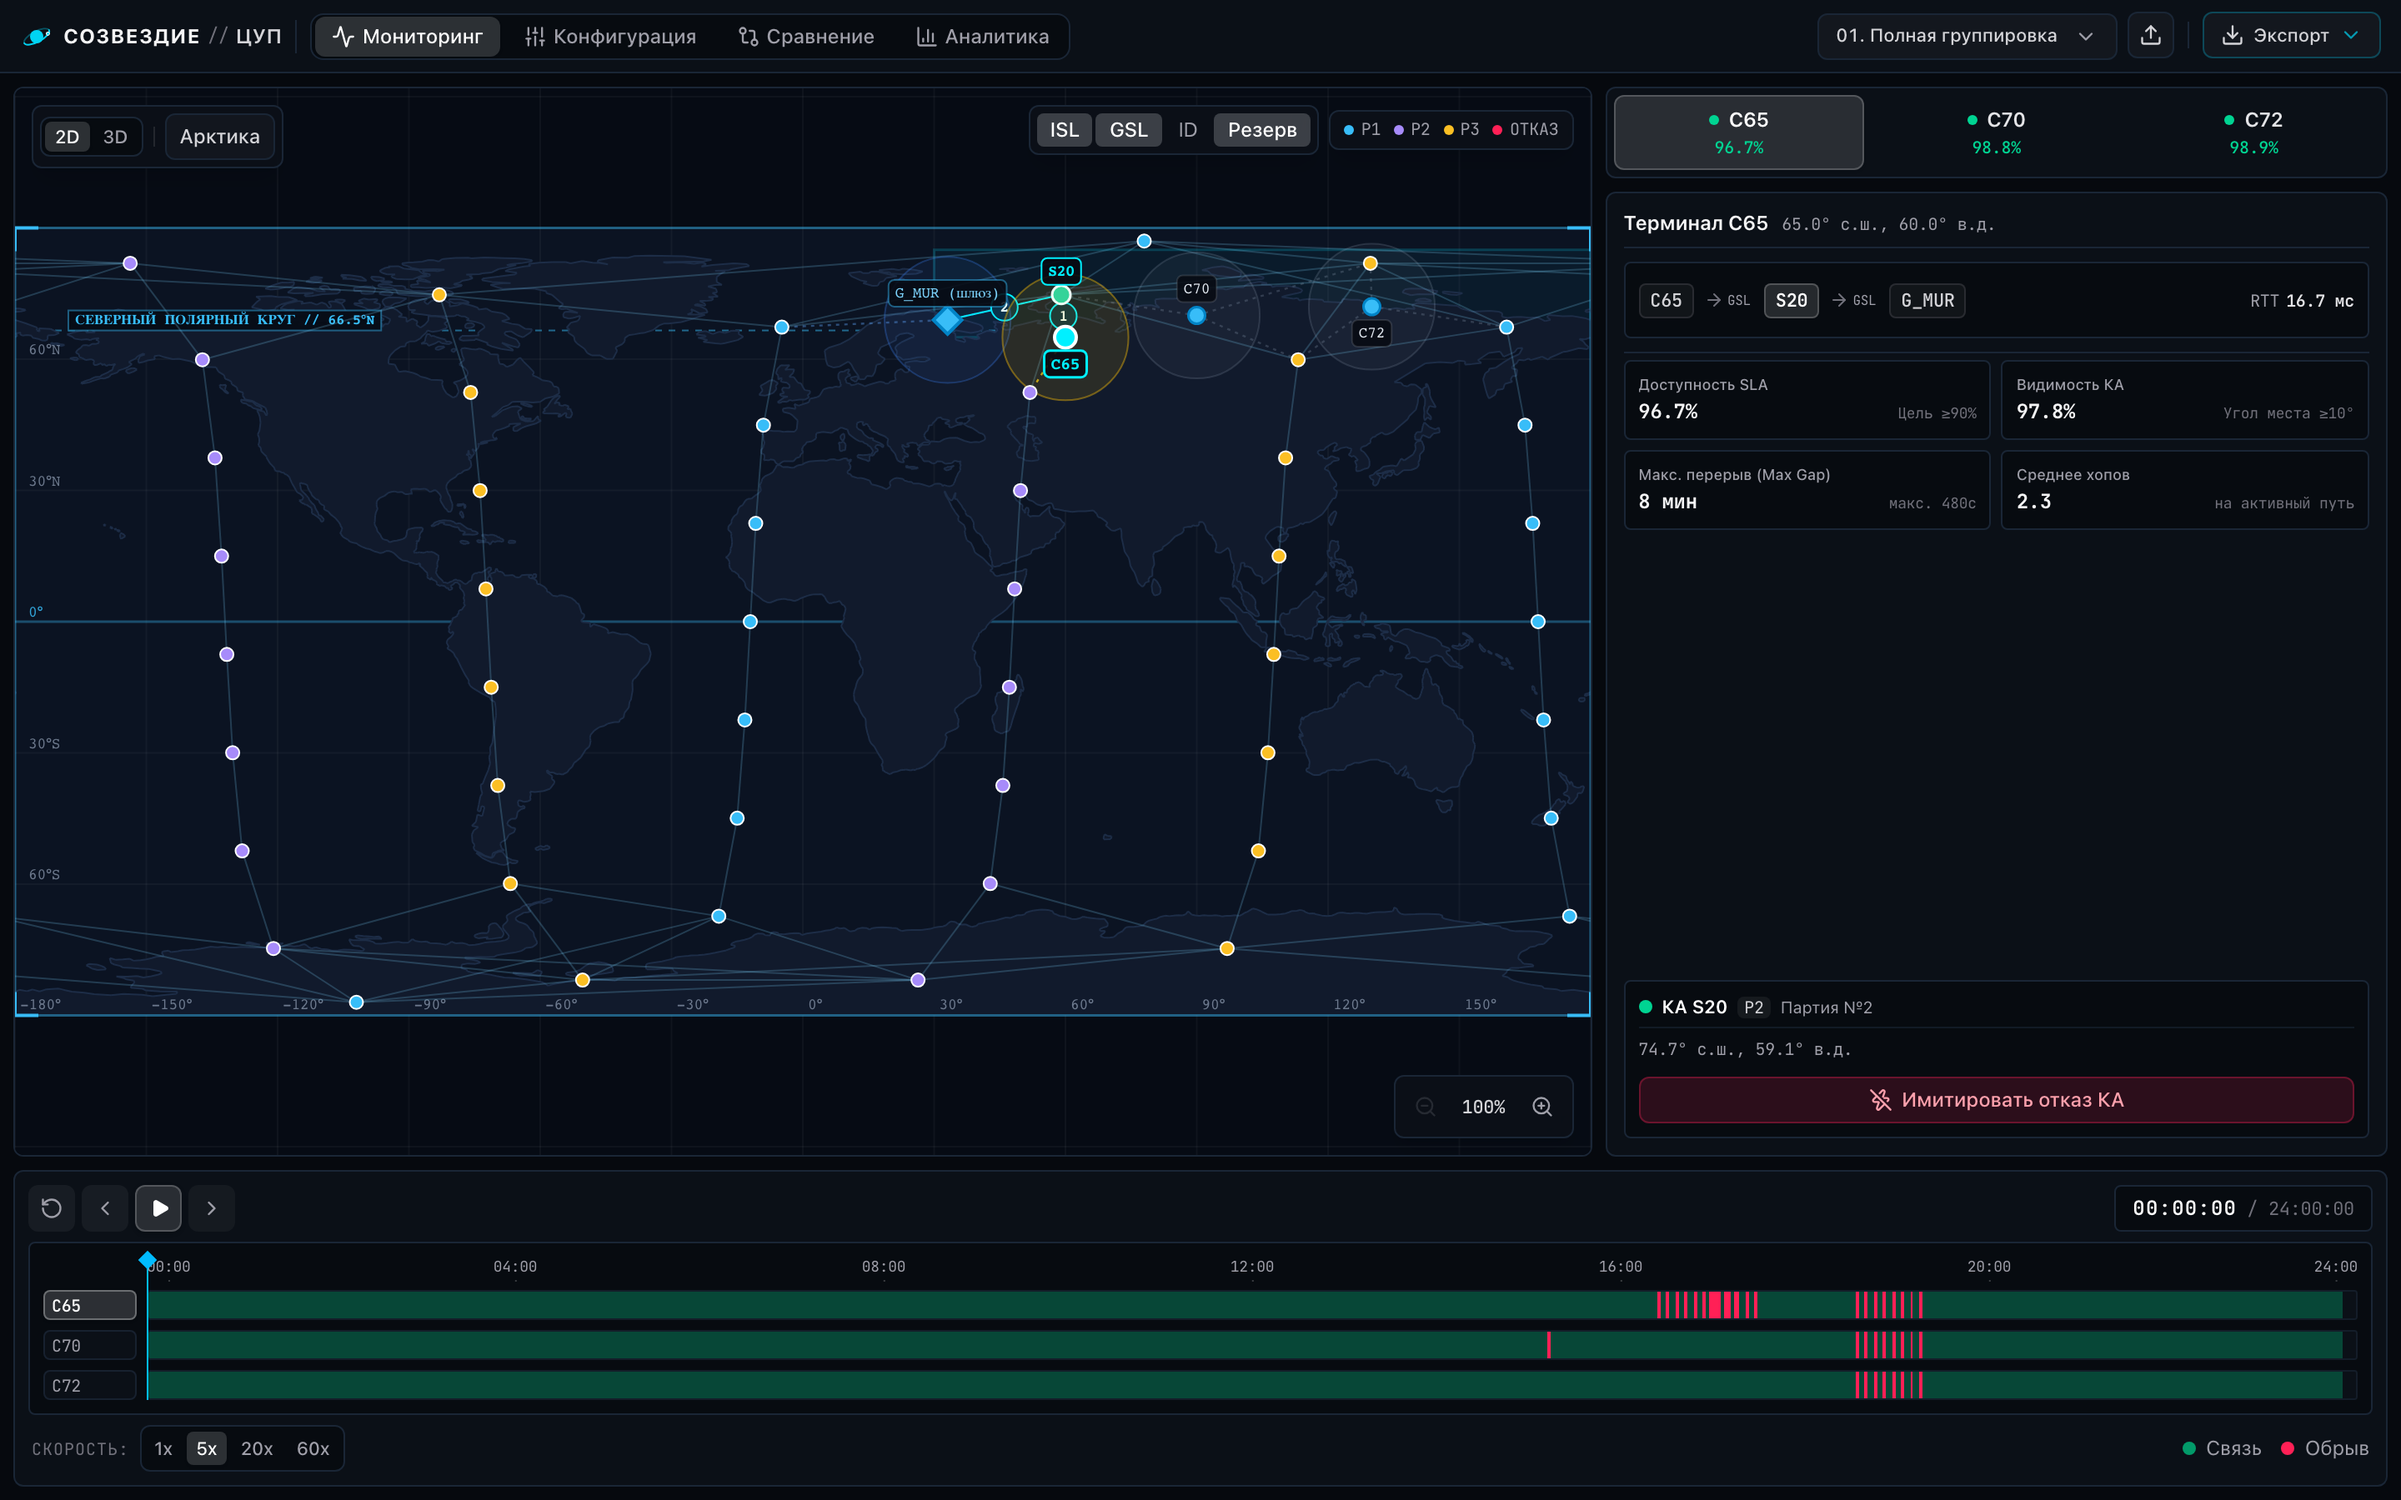
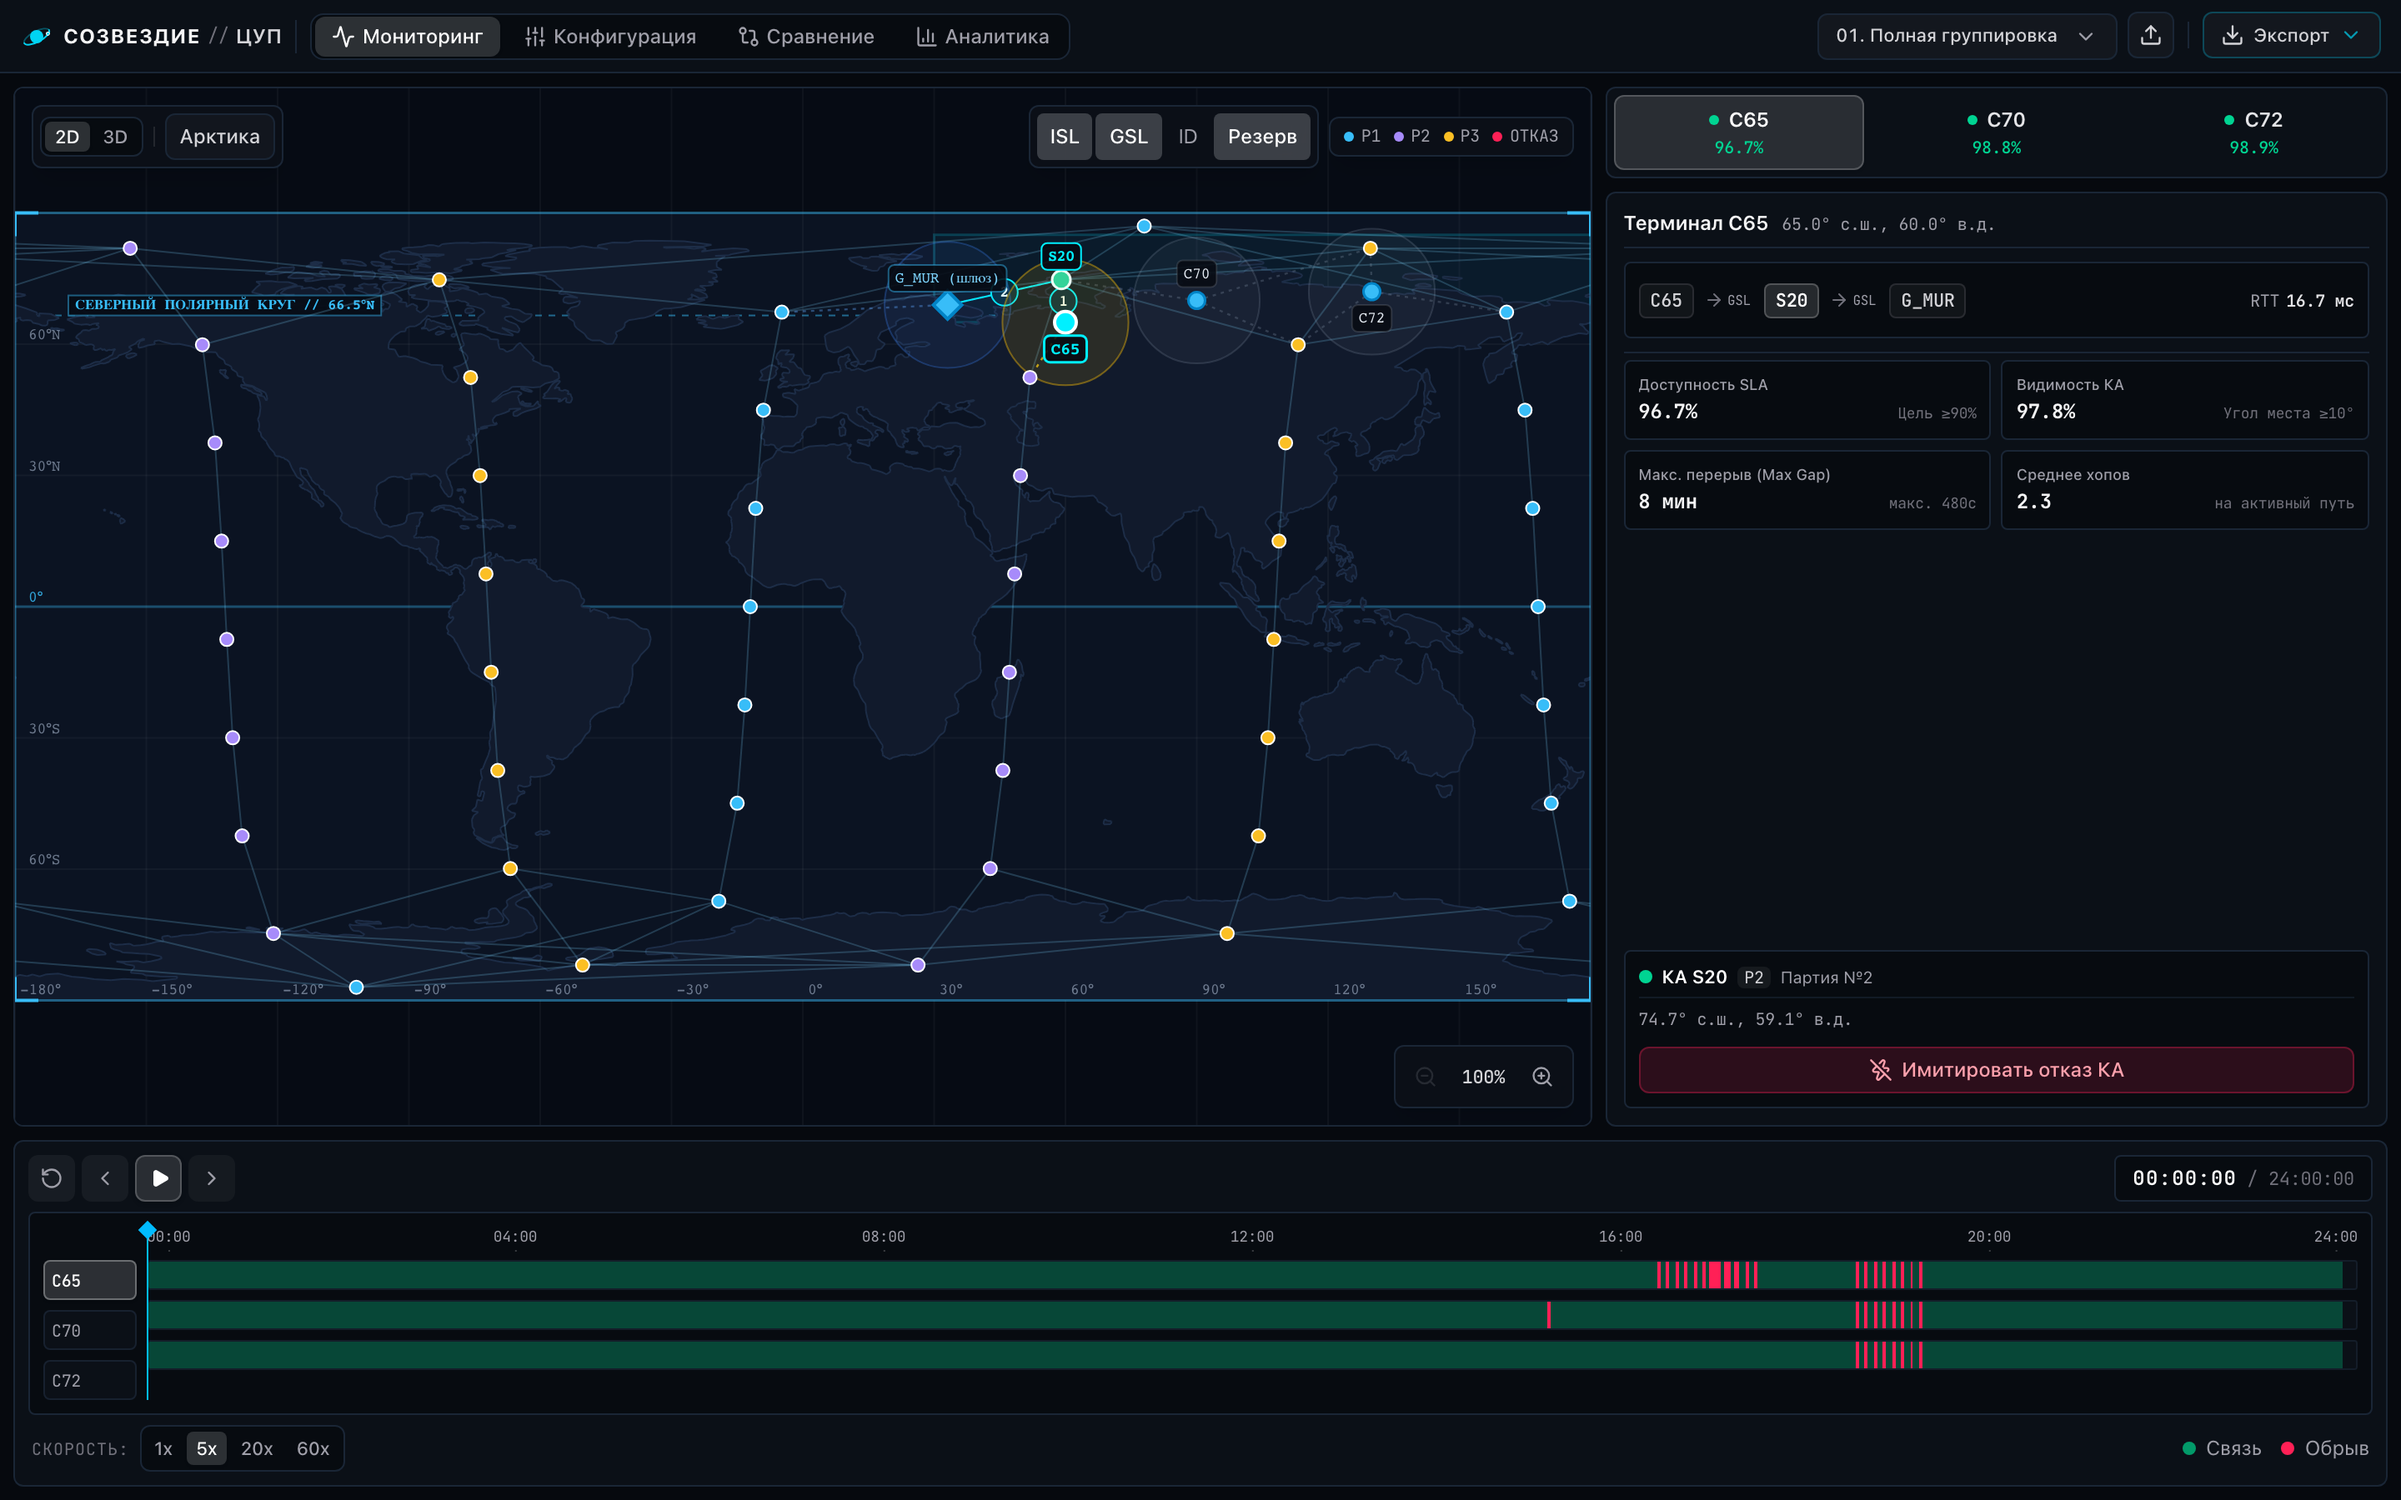
refactor(ui): harmonize palette, touch targets and semantic badges

diff --git a/frontend/src/components/map/MapControls.tsx b/frontend/src/components/map/MapControls.tsx
@@ -81,7 +81,7 @@ export const MapControls: React.FC<MapControlsProps> = ({
               type="button"
               onClick={onToggleIsl}
               title="Межспутниковые линии (ISL)"
-              className={`px-1 sm:px-2 py-0.5 rounded transition-all cursor-pointer text-[10px] sm:text-xs ${
+              className={`h-6 sm:h-7 px-1.5 sm:px-2 flex items-center justify-center rounded transition-all cursor-pointer text-[10px] sm:text-xs ${
                 showIsl ? 'bg-white/20 text-white font-medium' : 'text-zinc-400 hover:text-zinc-200'
               }`}
             >
@@ -92,7 +92,7 @@ export const MapControls: React.FC<MapControlsProps> = ({
               type="button"
               onClick={onToggleGroundLinks}
               title="Линии Земля-Спутник (GSL)"
-              className={`px-1 sm:px-2 py-0.5 rounded transition-all cursor-pointer text-[10px] sm:text-xs ${
+              className={`h-6 sm:h-7 px-1.5 sm:px-2 flex items-center justify-center rounded transition-all cursor-pointer text-[10px] sm:text-xs ${
                 showGroundLinks
                   ? 'bg-white/20 text-white font-medium'
                   : 'text-zinc-400 hover:text-zinc-200'
@@ -105,7 +105,7 @@ export const MapControls: React.FC<MapControlsProps> = ({
               type="button"
               onClick={onToggleLabels}
               title="Номера спутников (ID)"
-              className={`px-1 sm:px-2 py-0.5 rounded transition-all cursor-pointer text-[10px] sm:text-xs ${
+              className={`h-6 sm:h-7 px-1.5 sm:px-2 flex items-center justify-center rounded transition-all cursor-pointer text-[10px] sm:text-xs ${
                 showLabels
                   ? 'bg-white/20 text-white font-medium'
                   : 'text-zinc-400 hover:text-zinc-200'
@@ -119,7 +119,7 @@ export const MapControls: React.FC<MapControlsProps> = ({
               onClick={onToggleUnlaunched}
               aria-label="Резерв"
               title="Спутники последующих этапов"
-              className={`px-1 sm:px-2 py-0.5 rounded transition-all cursor-pointer text-[10px] sm:text-xs ${
+              className={`h-6 sm:h-7 px-1.5 sm:px-2 flex items-center justify-center rounded transition-all cursor-pointer text-[10px] sm:text-xs ${
                 showUnlaunched
                   ? 'bg-white/20 text-white font-medium'
                   : 'text-zinc-400 hover:text-zinc-200'
@@ -176,7 +176,7 @@ export const MapControls: React.FC<MapControlsProps> = ({
             title="Сбросить масштаб и положение (100%)"
             className={`px-1 py-0.5 text-[10px] sm:text-[11px] min-w-[32px] sm:min-w-[38px] text-center font-mono font-medium rounded transition-colors cursor-pointer ${
               Math.round(zoom * 100) !== 100
-                ? 'text-cyan-400 hover:text-cyan-300 hover:bg-cyan-500/10'
+                ? 'text-sky-400 hover:text-sky-300 hover:bg-sky-500/10'
                 : 'text-zinc-300 hover:text-white hover:bg-white/10'
             }`}
           >

diff --git a/frontend/src/components/timeline/TimelinePlayer.tsx b/frontend/src/components/timeline/TimelinePlayer.tsx
@@ -388,28 +388,34 @@ export const TimelinePlayer: React.FC<TimelinePlayerProps> = ({
       </div>
 
       {/* Floating Tooltip */}
-      {tooltipData && (
-        <div
-          className="fixed z-50 pointer-events-none bg-[#0b1017] text-zinc-100 text-[11px] px-2.5 py-1.5 rounded border border-[#1a2636] shadow-xl transform -translate-x-1/2 -translate-y-full"
-          style={{ left: tooltipData.x, top: tooltipData.y }}
-        >
-          <div className="flex items-center gap-2 font-semibold text-cyan-300 border-b border-[#1a2636] pb-1 mb-1">
-            <span>{tooltipData.clientId}</span>
-            <span>{formatTime(tooltipData.slot.t_s)}</span>
+      {tooltipData && (() => {
+        const clampedX =
+          typeof window !== 'undefined'
+            ? Math.max(90, Math.min(window.innerWidth - 90, tooltipData.x))
+            : tooltipData.x
+        return (
+          <div
+            className="fixed z-50 pointer-events-none bg-[#0b1017] text-zinc-100 text-[11px] px-2.5 py-1.5 rounded border border-[#1a2636] shadow-xl transform -translate-x-1/2 -translate-y-full"
+            style={{ left: clampedX, top: tooltipData.y }}
+          >
+            <div className="flex items-center gap-2 font-semibold text-sky-300 border-b border-[#1a2636] pb-1 mb-1">
+              <span>{tooltipData.clientId}</span>
+              <span>{formatTime(tooltipData.slot.t_s)}</span>
+            </div>
+            <div className="flex items-center gap-1 text-[10px]">
+              {tooltipData.slot.hasPath ? (
+                <span className="text-emerald-400 font-semibold">
+                  Связь активна (Хопов: {tooltipData.slot.hops})
+                </span>
+              ) : (
+                <span className="text-rose-400 font-semibold">
+                  Обрыв: {tooltipData.slot.reason || 'Нет пути'}
+                </span>
+              )}
+            </div>
           </div>
-          <div className="flex items-center gap-1 text-[10px]">
-            {tooltipData.slot.hasPath ? (
-              <span className="text-emerald-400 font-semibold">
-                Связь активна (Хопов: {tooltipData.slot.hops})
-              </span>
-            ) : (
-              <span className="text-rose-400 font-semibold">
-                Обрыв: {tooltipData.slot.reason || 'Нет пути'}
-              </span>
-            )}
-          </div>
-        </div>
-      )}
+        )
+      })()}
     </div>
   )
 }

diff --git a/frontend/src/components/ui/Badge.tsx b/frontend/src/components/ui/Badge.tsx
@@ -1,7 +1,18 @@
 import React from 'react'
 
 export interface BadgeProps extends React.HTMLAttributes<HTMLSpanElement> {
-  variant?: 'cyan' | 'lime' | 'emerald' | 'amber' | 'red' | 'blue' | 'neutral'
+  variant?:
+    | 'cyan'
+    | 'lime'
+    | 'emerald'
+    | 'amber'
+    | 'red'
+    | 'blue'
+    | 'neutral'
+    | 'danger'
+    | 'success'
+    | 'accent'
+    | 'warning'
 }
 
 export const Badge: React.FC<BadgeProps> = ({
@@ -10,7 +21,7 @@ export const Badge: React.FC<BadgeProps> = ({
   children,
   ...props
 }) => {
-  const variantStyles = {
+  const variantStyles: Record<NonNullable<BadgeProps['variant']>, string> = {
     cyan: 'bg-sky-500/10 text-sky-300 border-sky-500/30',
     lime: 'bg-lime-500/10 text-lime-300 border-lime-500/30',
     emerald: 'bg-emerald-500/10 text-emerald-300 border-emerald-500/30',
@@ -18,11 +29,15 @@ export const Badge: React.FC<BadgeProps> = ({
     red: 'bg-rose-500/10 text-rose-300 border-rose-500/30',
     blue: 'bg-blue-500/10 text-blue-300 border-blue-500/30',
     neutral: 'bg-white/[0.04] text-zinc-300 border-white/10',
-  }[variant]
+    danger: 'bg-rose-500/15 text-rose-300 border-rose-500/30',
+    success: 'bg-emerald-500/15 text-emerald-300 border-emerald-500/30',
+    accent: 'bg-sky-500/15 text-sky-200 border-sky-500/30',
+    warning: 'bg-amber-500/15 text-amber-300 border-amber-500/30',
+  }
 
   return (
     <span
-      className={`inline-flex items-center gap-1 px-2 py-0.5 rounded-md text-[10px] font-mono font-medium border ${variantStyles} ${className}`}
+      className={`inline-flex items-center gap-1 px-2 py-0.5 rounded-md text-[10px] font-mono font-medium border ${variantStyles[variant]} ${className}`}
       {...props}
     >
       {children}

diff --git a/frontend/src/components/map/MapSatelliteHUD.tsx b/frontend/src/components/map/MapSatelliteHUD.tsx
@@ -32,7 +32,7 @@ export const MapSatelliteHUD: React.FC<MapSatelliteHUDProps> = ({
             }`}
           />
           <span className="font-semibold text-xs text-white">КА {satellite.id}</span>
-          <span className="text-[10px] bg-[#070b10] text-zinc-400 border border-[#1a2636] px-1.5 py-0.2 rounded">
+          <span className="text-[10px] bg-[#070b10] text-zinc-400 border border-[#1a2636] px-1.5 py-0.5 rounded">
             {satellite.plane_id}
           </span>
         </div>
@@ -75,7 +75,7 @@ export const MapSatelliteHUD: React.FC<MapSatelliteHUDProps> = ({
         </div>
         <div className="flex justify-between">
           <span className="text-zinc-400">Связи (ISL):</span>
-          <span className="text-cyan-400 font-bold">{islDegree} линков</span>
+          <span className="text-sky-400 font-bold">{islDegree} линков</span>
         </div>
       </div>
 

diff --git a/frontend/src/components/ui/ui.test.tsx b/frontend/src/components/ui/ui.test.tsx
@@ -17,7 +17,19 @@ describe('UI Primitives (Server Rendered Strings)', () => {
     })
 
     it('renders all variant themes', () => {
-      const variants = ['cyan', 'lime', 'emerald', 'amber', 'red', 'blue', 'neutral'] as const
+      const variants = [
+        'cyan',
+        'lime',
+        'emerald',
+        'amber',
+        'red',
+        'blue',
+        'neutral',
+        'danger',
+        'success',
+        'accent',
+        'warning',
+      ] as const
       for (const v of variants) {
         const html = renderToString(<Badge variant={v}>{`Variant ${v}`}</Badge>)
         expect(html).toContain(`Variant ${v}`)
@@ -157,6 +169,7 @@ describe('UI Primitives (Server Rendered Strings)', () => {
         />
       )
       expect(html).toContain('flex-col')
+      expect(html).toContain('h-6')
     })
 
     it('renders grid variant', () => {

diff --git a/frontend/src/App.tsx b/frontend/src/App.tsx
@@ -206,11 +206,11 @@ export default function App() {
                 onClick={() => setActiveTab(tab.value)}
                 className={`flex flex-col items-center justify-center gap-0.5 transition-colors cursor-pointer select-none ${
                   isActive
-                    ? 'text-cyan-400 font-semibold bg-cyan-500/10'
+                    ? 'text-sky-400 font-semibold bg-sky-500/10'
                     : 'text-zinc-400 hover:text-zinc-200'
                 }`}
               >
-                <Icon className={`w-4 h-4 ${isActive ? 'text-cyan-400' : 'text-zinc-400'}`} />
+                <Icon className={`w-4 h-4 ${isActive ? 'text-sky-400' : 'text-zinc-400'}`} />
                 <span className="text-[10px] tracking-tight">{tab.label}</span>
               </button>
             )

diff --git a/frontend/src/components/ui/ClientSelector.tsx b/frontend/src/components/ui/ClientSelector.tsx
@@ -107,7 +107,7 @@ export const ClientSelector: React.FC<ClientSelectorProps> = ({
               aria-pressed={isSelected}
               type="button"
               onClick={() => onSelectClient(c.id)}
-              className={`h-4.5 px-1 rounded text-[10px] flex items-center justify-between border transition-all cursor-pointer overflow-hidden ${
+              className={`h-6 px-1 rounded text-[10px] flex items-center justify-between border transition-all cursor-pointer overflow-hidden ${
                 isSelected
                   ? 'bg-white/15 border-white/30 text-white font-medium shadow-xs'
                   : 'bg-[#0b1017] border-[#1a2636]/80 text-zinc-400 hover:text-zinc-200'

diff --git a/frontend/src/components/map/MapTooltip.tsx b/frontend/src/components/map/MapTooltip.tsx
@@ -19,7 +19,7 @@ export const MapTooltip: React.FC<MapTooltipProps> = ({ hoveredNode }) => {
       }}
       className="pointer-events-none absolute z-30 rounded bg-[#0b1017]/95 px-2 py-1 font-mono text-[10px] text-zinc-200 shadow-md border border-[#1a2636] backdrop-blur whitespace-nowrap"
     >
-      <span className="font-semibold text-cyan-400">
+      <span className="font-semibold text-sky-400">
         {hoveredNode.type === 'sat' ? `КА ${hoveredNode.id}` : `Наземный пункт ${hoveredNode.id}`}
       </span>
     </div>
